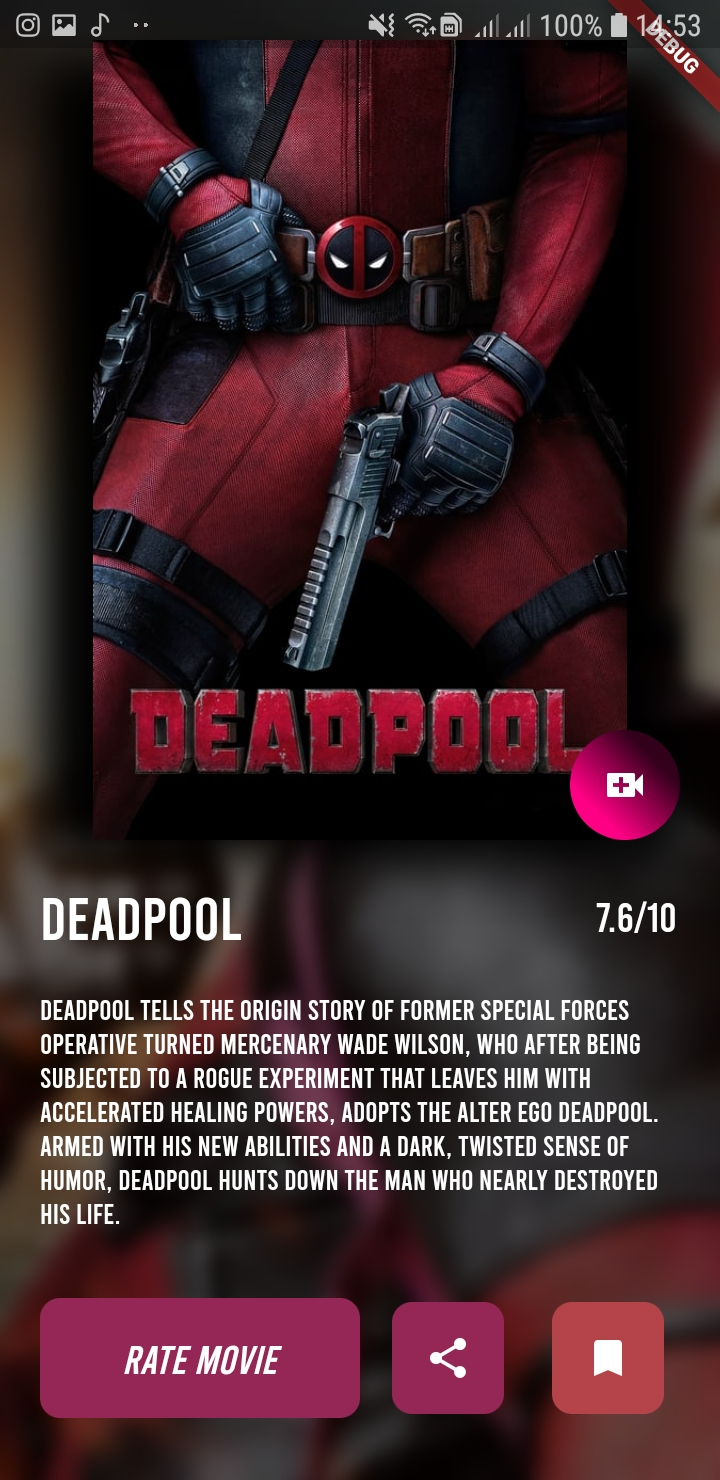
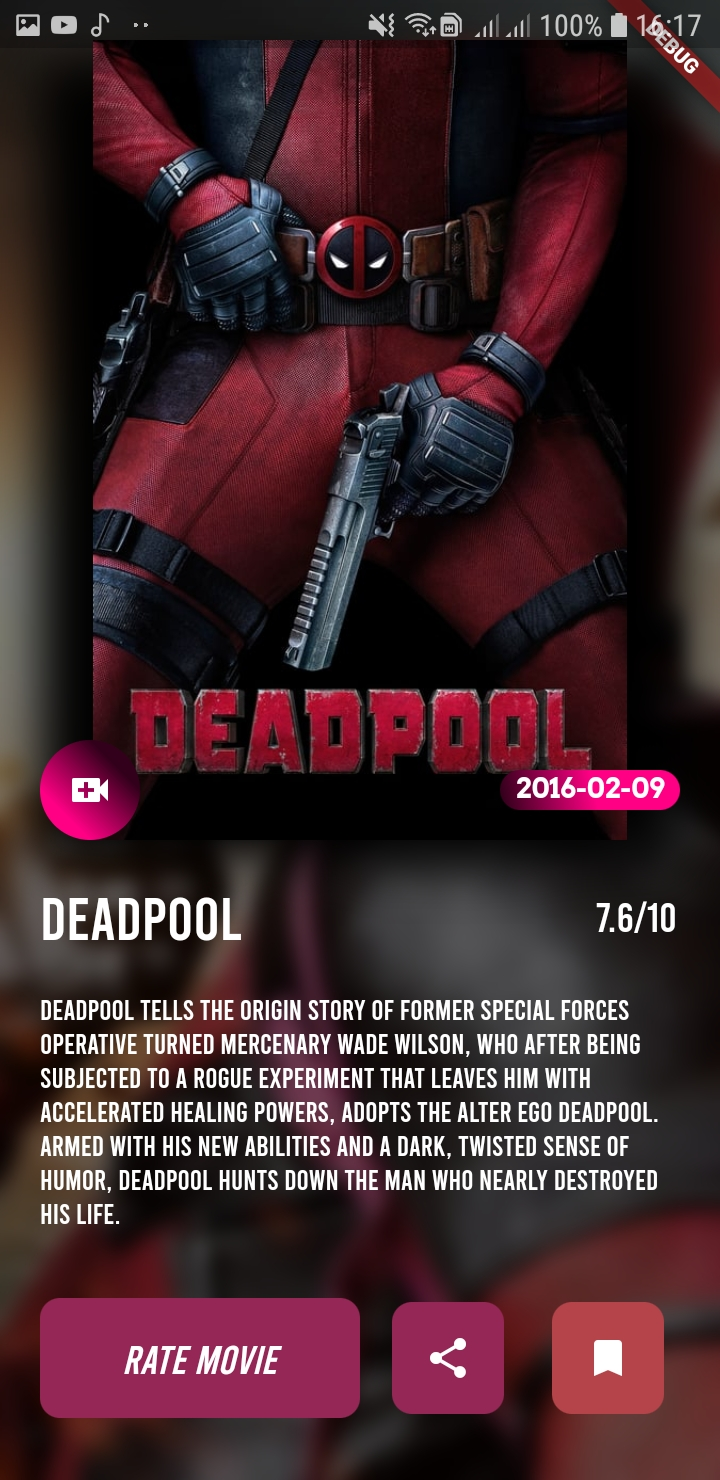
Added Relase Date And improved Movie Discover page

diff --git a/lib/moviedetail.dart b/lib/moviedetail.dart
@@ -12,13 +12,15 @@ class moviedetails extends StatelessWidget {
   Color purpble = Color(0XFF942755);
   Color start = Color(0xFFff0084);
   Color end = Color(0xFF33001b);
-  
+  Color ystart = Color(0xFFBA8B02);
+  Color yend = Color(0xFF181818);
+
   var image_url = 'https://image.tmdb.org/t/p/w500/';
   moviedetails(this.movies);
- 
+
   @override
   Widget build(BuildContext context) {
-   var id =movies['id'];
+    var id = movies['id'];
     return Scaffold(
       body: Stack(
         fit: StackFit.expand,
@@ -59,13 +61,20 @@ class moviedetails extends StatelessWidget {
                               ]),
                         ),
                       ),
-                      InkWell(
+                     Row(
+                       
+      
+                       mainAxisAlignment: MainAxisAlignment.spaceBetween,
+      
+                       children: <Widget>[
+                          InkWell(
                         child: Container(
-                          width: 55,
-                          height: 55,
+                          width: 50,
+                          height: 50,
                           child: Icon(
                             Icons.video_call,
                             color: Colors.white,
+
                           ),
                           decoration: BoxDecoration(
                               borderRadius: new BorderRadius.circular(180),
@@ -75,16 +84,41 @@ class moviedetails extends StatelessWidget {
                                 end: const FractionalOffset(0.0, 0.5),
                                 stops: [0.0, 1.0],
                               )),
-
                         ),
-                        onTap: (){
-                         
-                           gettrailer(movies['id']);
-                         
+                        onTap: () {
+                          gettrailer(movies['id']);
                         },
-                      )
+                      ),
+                      
+                        Container(
+                          width: 90,
+                          height: 20,
+                         
+                          decoration: BoxDecoration(
+                              borderRadius: new BorderRadius.circular(20),
+                              gradient: LinearGradient(
+                                colors: [start, end],
+                                begin: const FractionalOffset(0.5, 0.0),
+                                end: const FractionalOffset(0.0, 0.5),
+                                stops: [0.0, 1.0],
+                              )),
+                              child: Text(
+                                movies['release_date'],
+                                textAlign: TextAlign.center,
+                                style: TextStyle(
+                                  color: Colors.white,
+                                  fontFamily: 'Arvo-Bold'
+                                ) ,
+                              ),
+                        ),
+                       
+                      
+                       ],
+                     )
+                   
                     ],
-                    alignment: AlignmentDirectional.bottomEnd,
+                    alignment: AlignmentDirectional.bottomCenter,
+                    
                   ),
                   new Container(
                     margin: const EdgeInsets.symmetric(
@@ -131,22 +165,21 @@ class moviedetails extends StatelessWidget {
                       new Padding(
                         padding: const EdgeInsets.all(16.0),
                         child: InkWell(
-                             child: new Container(
-                            padding: const EdgeInsets.all(16.0),
-                            alignment: Alignment.center,
-                            child: new Icon(
-                              Icons.share,
-                              color: Colors.white,
+                            child: new Container(
+                              padding: const EdgeInsets.all(16.0),
+                              alignment: Alignment.center,
+                              child: new Icon(
+                                Icons.share,
+                                color: Colors.white,
+                              ),
+                              decoration: new BoxDecoration(
+                                  borderRadius: new BorderRadius.circular(10.0),
+                                  color: purpble),
                             ),
-                            decoration: new BoxDecoration(
-                                borderRadius: new BorderRadius.circular(10.0),
-                                color: purpble),
-                          ),
-                       onTap: (){
-                         Share.share('https://www.themoviedb.org/movie/$id');
-                       }
-                        ),
-
+                            onTap: () {
+                              Share.share(
+                                  'https://www.themoviedb.org/movie/$id');
+                            }),
                       ),
                       new Padding(
                           padding: const EdgeInsets.all(8.0),
@@ -172,15 +205,15 @@ class moviedetails extends StatelessWidget {
     );
   }
 }
-Future gettrailer (var id) async{
-  var trailerurl =  'https://api.themoviedb.org/3/movie/$id/videos?api_key=1a293cbbabf99e68f7c2ae63f7e0fade&language=en-US';
-   http.Response response =await http.get(trailerurl);
-   Map data =json.decode(response.body);
-   List info = data['results'];
-   
 
+Future gettrailer(var id) async {
+  var trailerurl =
+      'https://api.themoviedb.org/3/movie/$id/videos?api_key=1a293cbbabf99e68f7c2ae63f7e0fade&language=en-US';
+  http.Response response = await http.get(trailerurl);
+  Map data = json.decode(response.body);
+  List info = data['results'];
 
-   var youtube = 'https://www.youtube.com/watch?v=${info[1]['key']}';
+  var youtube = 'https://www.youtube.com/watch?v=${info[1]['key']}';
   // return launch(youtube);
   return launch(youtube);
 }

diff --git a/lib/movielist.dart b/lib/movielist.dart
@@ -15,7 +15,7 @@ class movielistState extends State<movielist> {
 
   Future getdata() async {
     http.Response response = await http.get(
-        'https://api.themoviedb.org/3/search/movie?api_key=1a293cbbabf99e68f7c2ae63f7e0fade&language=en-US&query=find&page=1&include_adult=false');
+        'https://api.themoviedb.org/3/discover/movie?api_key=1a293cbbabf99e68f7c2ae63f7e0fade&language=en-US&sort_by=popularity.desc&include_adult=false&include_video=false&page=1');
     data = json.decode(response.body);
     setState(() {
       Movies = data['results'];
